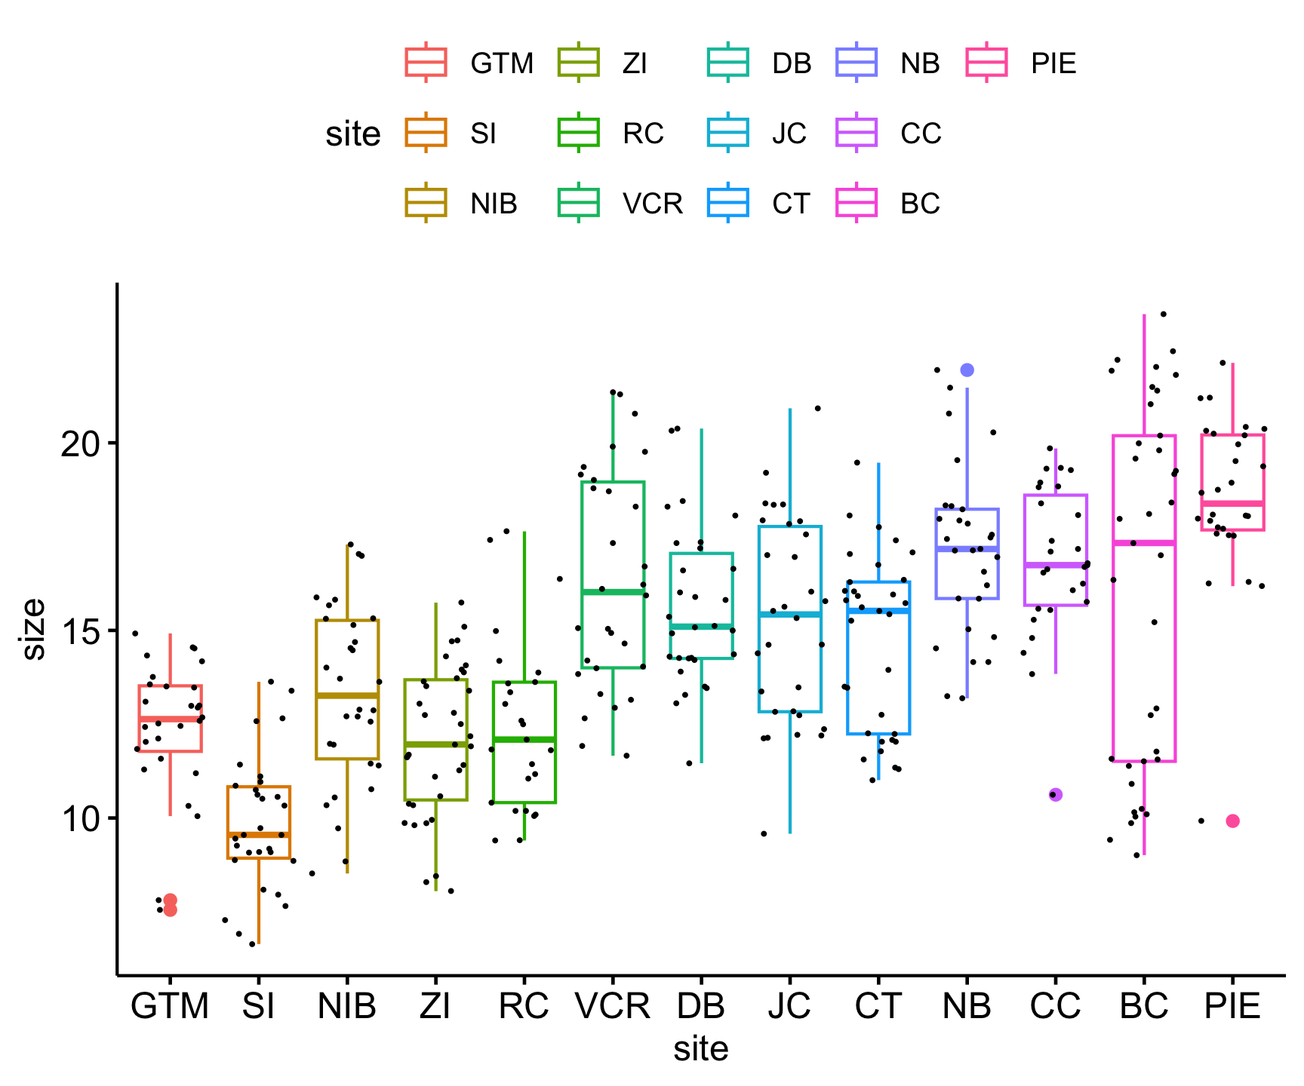
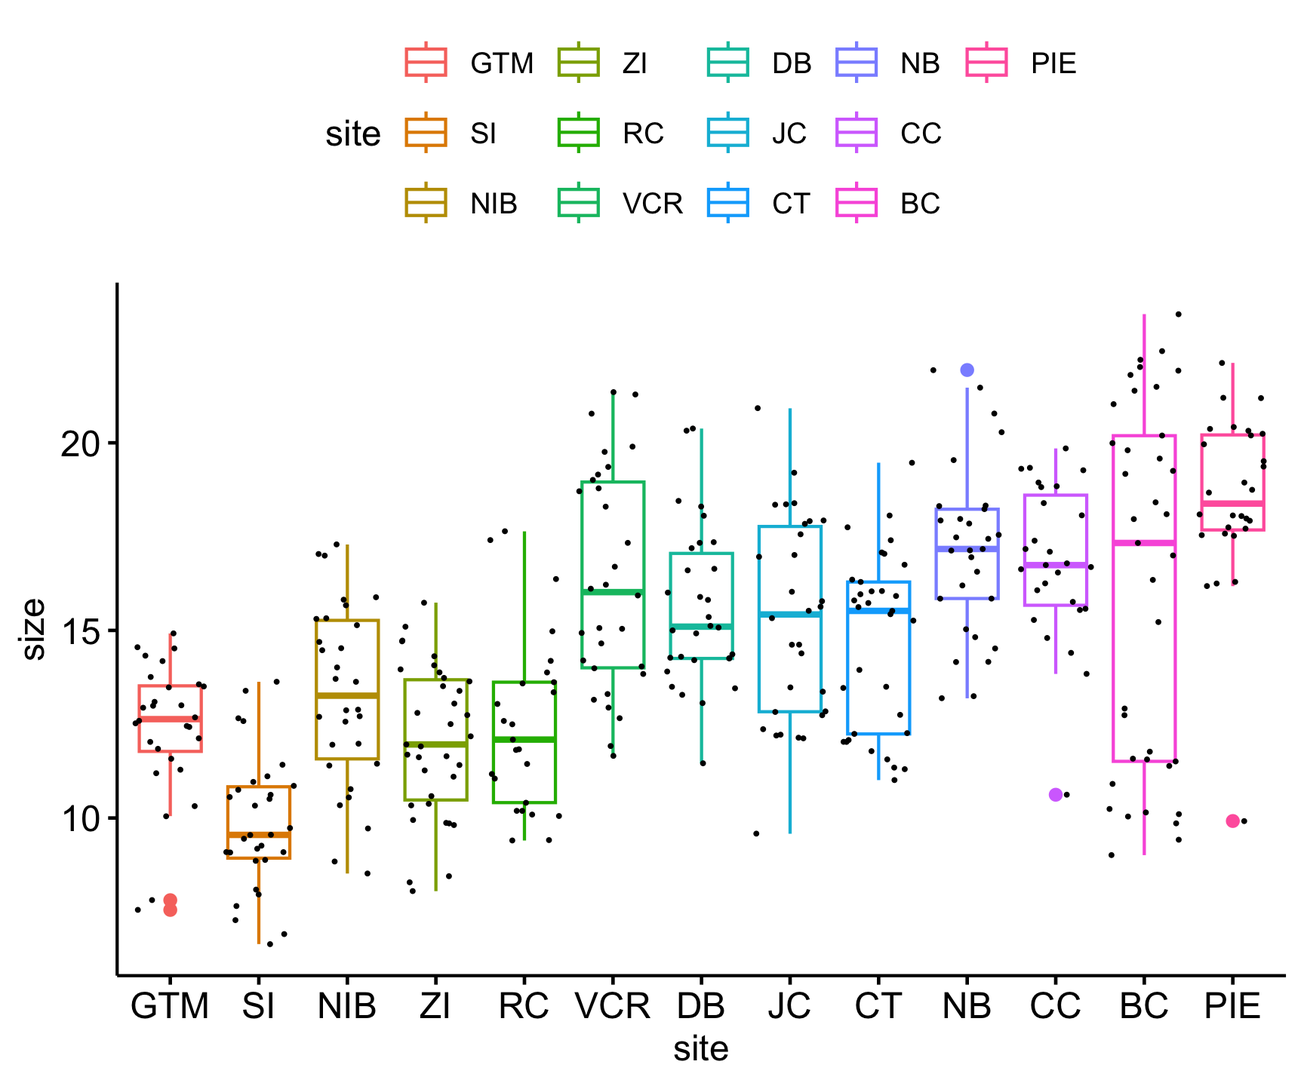
come on

diff --git a/docs/lab4.html b/docs/lab4.html
@@ -531,7 +531,7 @@ mean in group CC mean in group OG
     Shapiro-Wilk normality test
 
 data:  s$length_2_mm
-W = 0.93466, p-value &lt; 2.2e-16</code></pre>
+W = 0.92942, p-value &lt; 2.2e-16</code></pre>
 </div>
 <details class="code-fold">
 <summary>Code</summary>
@@ -542,7 +542,7 @@ W = 0.93466, p-value &lt; 2.2e-16</code></pre>
     Shapiro-Wilk normality test
 
 data:  s$weight_g
-W = 0.56517, p-value &lt; 2.2e-16</code></pre>
+W = 0.55629, p-value &lt; 2.2e-16</code></pre>
 </div>
 </div>
 <p>The <em>null hypothesis of the Shapiro-Wilk normality test is that the variable is normally distributed</em>, so a significant p-value less than 0.05 (as we see for both of our variables here) tells use that our data does not fit a normal distribution.</p>
@@ -916,7 +916,7 @@ $ name          &lt;chr&gt; "Guana Tolomoto Matanzas NERR", "Guana Tolomoto Mata
 <span id="cb62-9"><a href="#cb62-9" aria-hidden="true" tabindex="-1"></a>  flextable<span class="sc">::</span><span class="fu">set_caption</span>(<span class="st">"Shapiro-Wilk normality test for size at each site"</span>)</span></code><button title="Copy to Clipboard" class="code-copy-button"><i class="bi"></i></button></pre></div>
 </details>
 <div class="cell-output-display">
-<div class="tabwid"><style>.cl-cdd19b4c{}.cl-cdceaaf4{font-family:'Helvetica';font-size:11pt;font-weight:normal;font-style:normal;text-decoration:none;color:rgba(0, 0, 0, 1.00);background-color:transparent;}.cl-cdcfd8fc{margin:0;text-align:left;border-bottom: 0 solid rgba(0, 0, 0, 1.00);border-top: 0 solid rgba(0, 0, 0, 1.00);border-left: 0 solid rgba(0, 0, 0, 1.00);border-right: 0 solid rgba(0, 0, 0, 1.00);padding-bottom:5pt;padding-top:5pt;padding-left:5pt;padding-right:5pt;line-height: 1;background-color:transparent;}.cl-cdcfd906{margin:0;text-align:right;border-bottom: 0 solid rgba(0, 0, 0, 1.00);border-top: 0 solid rgba(0, 0, 0, 1.00);border-left: 0 solid rgba(0, 0, 0, 1.00);border-right: 0 solid rgba(0, 0, 0, 1.00);padding-bottom:5pt;padding-top:5pt;padding-left:5pt;padding-right:5pt;line-height: 1;background-color:transparent;}.cl-cdcfe5ae{width:0.75in;background-color:transparent;vertical-align: middle;border-bottom: 1.5pt solid rgba(102, 102, 102, 1.00);border-top: 1.5pt solid rgba(102, 102, 102, 1.00);border-left: 0 solid rgba(0, 0, 0, 1.00);border-right: 0 solid rgba(0, 0, 0, 1.00);margin-bottom:0;margin-top:0;margin-left:0;margin-right:0;}.cl-cdcfe5af{width:0.75in;background-color:transparent;vertical-align: middle;border-bottom: 1.5pt solid rgba(102, 102, 102, 1.00);border-top: 1.5pt solid rgba(102, 102, 102, 1.00);border-left: 0 solid rgba(0, 0, 0, 1.00);border-right: 0 solid rgba(0, 0, 0, 1.00);margin-bottom:0;margin-top:0;margin-left:0;margin-right:0;}.cl-cdcfe5b0{width:0.75in;background-color:transparent;vertical-align: middle;border-bottom: 0 solid rgba(0, 0, 0, 1.00);border-top: 0 solid rgba(0, 0, 0, 1.00);border-left: 0 solid rgba(0, 0, 0, 1.00);border-right: 0 solid rgba(0, 0, 0, 1.00);margin-bottom:0;margin-top:0;margin-left:0;margin-right:0;}.cl-cdcfe5b8{width:0.75in;background-color:transparent;vertical-align: middle;border-bottom: 0 solid rgba(0, 0, 0, 1.00);border-top: 0 solid rgba(0, 0, 0, 1.00);border-left: 0 solid rgba(0, 0, 0, 1.00);border-right: 0 solid rgba(0, 0, 0, 1.00);margin-bottom:0;margin-top:0;margin-left:0;margin-right:0;}.cl-cdcfe5b9{width:0.75in;background-color:transparent;vertical-align: middle;border-bottom: 1.5pt solid rgba(102, 102, 102, 1.00);border-top: 0 solid rgba(0, 0, 0, 1.00);border-left: 0 solid rgba(0, 0, 0, 1.00);border-right: 0 solid rgba(0, 0, 0, 1.00);margin-bottom:0;margin-top:0;margin-left:0;margin-right:0;}.cl-cdcfe5c2{width:0.75in;background-color:transparent;vertical-align: middle;border-bottom: 1.5pt solid rgba(102, 102, 102, 1.00);border-top: 0 solid rgba(0, 0, 0, 1.00);border-left: 0 solid rgba(0, 0, 0, 1.00);border-right: 0 solid rgba(0, 0, 0, 1.00);margin-bottom:0;margin-top:0;margin-left:0;margin-right:0;}</style><table data-quarto-disable-processing="true" class="cl-cdd19b4c"><thead><tr style="overflow-wrap:break-word;"><th class="cl-cdcfe5ae"><p class="cl-cdcfd8fc"><span class="cl-cdceaaf4">site</span></p></th><th class="cl-cdcfe5af"><p class="cl-cdcfd906"><span class="cl-cdceaaf4">n</span></p></th><th class="cl-cdcfe5af"><p class="cl-cdcfd906"><span class="cl-cdceaaf4">statistic</span></p></th><th class="cl-cdcfe5af"><p class="cl-cdcfd906"><span class="cl-cdceaaf4">p.value</span></p></th></tr></thead><tbody><tr style="overflow-wrap:break-word;"><td class="cl-cdcfe5b0"><p class="cl-cdcfd8fc"><span class="cl-cdceaaf4">GTM</span></p></td><td class="cl-cdcfe5b8"><p class="cl-cdcfd906"><span class="cl-cdceaaf4">28</span></p></td><td class="cl-cdcfe5b8"><p class="cl-cdcfd906"><span class="cl-cdceaaf4">0.9007814</span></p></td><td class="cl-cdcfe5b8"><p class="cl-cdcfd906"><span class="cl-cdceaaf4">0.0119337484</span></p></td></tr><tr style="overflow-wrap:break-word;"><td class="cl-cdcfe5b0"><p class="cl-cdcfd8fc"><span class="cl-cdceaaf4">SI</span></p></td><td class="cl-cdcfe5b8"><p class="cl-cdcfd906"><span class="cl-cdceaaf4">30</span></p></td><td class="cl-cdcfe5b8"><p class="cl-cdcfd906"><span class="cl-cdceaaf4">0.9705352</span></p></td><td class="cl-cdcfe5b8"><p class="cl-cdcfd906"><span class="cl-cdceaaf4">0.5539208550</span></p></td></tr><tr style="overflow-wrap:break-word;"><td class="cl-cdcfe5b0"><p class="cl-cdcfd8fc"><span class="cl-cdceaaf4">NIB</span></p></td><td class="cl-cdcfe5b8"><p class="cl-cdcfd906"><span class="cl-cdceaaf4">30</span></p></td><td class="cl-cdcfe5b8"><p class="cl-cdcfd906"><span class="cl-cdceaaf4">0.9728297</span></p></td><td class="cl-cdcfe5b8"><p class="cl-cdcfd906"><span class="cl-cdceaaf4">0.6191340731</span></p></td></tr><tr style="overflow-wrap:break-word;"><td class="cl-cdcfe5b0"><p class="cl-cdcfd8fc"><span class="cl-cdceaaf4">ZI</span></p></td><td class="cl-cdcfe5b8"><p class="cl-cdcfd906"><span class="cl-cdceaaf4">35</span></p></td><td class="cl-cdcfe5b8"><p class="cl-cdcfd906"><span class="cl-cdceaaf4">0.9744583</span></p></td><td class="cl-cdcfe5b8"><p class="cl-cdcfd906"><span class="cl-cdceaaf4">0.5765589900</span></p></td></tr><tr style="overflow-wrap:break-word;"><td class="cl-cdcfe5b0"><p class="cl-cdcfd8fc"><span class="cl-cdceaaf4">RC</span></p></td><td class="cl-cdcfe5b8"><p class="cl-cdcfd906"><span class="cl-cdceaaf4">25</span></p></td><td class="cl-cdcfe5b8"><p class="cl-cdcfd906"><span class="cl-cdceaaf4">0.9315062</span></p></td><td class="cl-cdcfe5b8"><p class="cl-cdcfd906"><span class="cl-cdceaaf4">0.0941588802</span></p></td></tr><tr style="overflow-wrap:break-word;"><td class="cl-cdcfe5b0"><p class="cl-cdcfd8fc"><span class="cl-cdceaaf4">VCR</span></p></td><td class="cl-cdcfe5b8"><p class="cl-cdcfd906"><span class="cl-cdceaaf4">30</span></p></td><td class="cl-cdcfe5b8"><p class="cl-cdcfd906"><span class="cl-cdceaaf4">0.9444682</span></p></td><td class="cl-cdcfe5b8"><p class="cl-cdcfd906"><span class="cl-cdceaaf4">0.1200262239</span></p></td></tr><tr style="overflow-wrap:break-word;"><td class="cl-cdcfe5b0"><p class="cl-cdcfd8fc"><span class="cl-cdceaaf4">DB</span></p></td><td class="cl-cdcfe5b8"><p class="cl-cdcfd906"><span class="cl-cdceaaf4">30</span></p></td><td class="cl-cdcfe5b8"><p class="cl-cdcfd906"><span class="cl-cdceaaf4">0.9576271</span></p></td><td class="cl-cdcfe5b8"><p class="cl-cdcfd906"><span class="cl-cdceaaf4">0.2690631942</span></p></td></tr><tr style="overflow-wrap:break-word;"><td class="cl-cdcfe5b0"><p class="cl-cdcfd8fc"><span class="cl-cdceaaf4">JC</span></p></td><td class="cl-cdcfe5b8"><p class="cl-cdcfd906"><span class="cl-cdceaaf4">30</span></p></td><td class="cl-cdcfe5b8"><p class="cl-cdcfd906"><span class="cl-cdceaaf4">0.9634754</span></p></td><td class="cl-cdcfe5b8"><p class="cl-cdcfd906"><span class="cl-cdceaaf4">0.3788327942</span></p></td></tr><tr style="overflow-wrap:break-word;"><td class="cl-cdcfe5b0"><p class="cl-cdcfd8fc"><span class="cl-cdceaaf4">CT</span></p></td><td class="cl-cdcfe5b8"><p class="cl-cdcfd906"><span class="cl-cdceaaf4">33</span></p></td><td class="cl-cdcfe5b8"><p class="cl-cdcfd906"><span class="cl-cdceaaf4">0.9277365</span></p></td><td class="cl-cdcfe5b8"><p class="cl-cdcfd906"><span class="cl-cdceaaf4">0.0301785639</span></p></td></tr><tr style="overflow-wrap:break-word;"><td class="cl-cdcfe5b0"><p class="cl-cdcfd8fc"><span class="cl-cdceaaf4">NB</span></p></td><td class="cl-cdcfe5b8"><p class="cl-cdcfd906"><span class="cl-cdceaaf4">29</span></p></td><td class="cl-cdcfe5b8"><p class="cl-cdcfd906"><span class="cl-cdceaaf4">0.9675367</span></p></td><td class="cl-cdcfe5b8"><p class="cl-cdcfd906"><span class="cl-cdceaaf4">0.4949587443</span></p></td></tr><tr style="overflow-wrap:break-word;"><td class="cl-cdcfe5b0"><p class="cl-cdcfd8fc"><span class="cl-cdceaaf4">CC</span></p></td><td class="cl-cdcfe5b8"><p class="cl-cdcfd906"><span class="cl-cdceaaf4">27</span></p></td><td class="cl-cdcfe5b8"><p class="cl-cdcfd906"><span class="cl-cdceaaf4">0.9354659</span></p></td><td class="cl-cdcfe5b8"><p class="cl-cdcfd906"><span class="cl-cdceaaf4">0.0941803007</span></p></td></tr><tr style="overflow-wrap:break-word;"><td class="cl-cdcfe5b0"><p class="cl-cdcfd8fc"><span class="cl-cdceaaf4">BC</span></p></td><td class="cl-cdcfe5b8"><p class="cl-cdcfd906"><span class="cl-cdceaaf4">37</span></p></td><td class="cl-cdcfe5b8"><p class="cl-cdcfd906"><span class="cl-cdceaaf4">0.8885721</span></p></td><td class="cl-cdcfe5b8"><p class="cl-cdcfd906"><span class="cl-cdceaaf4">0.0014402753</span></p></td></tr><tr style="overflow-wrap:break-word;"><td class="cl-cdcfe5b9"><p class="cl-cdcfd8fc"><span class="cl-cdceaaf4">PIE</span></p></td><td class="cl-cdcfe5c2"><p class="cl-cdcfd906"><span class="cl-cdceaaf4">28</span></p></td><td class="cl-cdcfe5c2"><p class="cl-cdcfd906"><span class="cl-cdceaaf4">0.8489399</span></p></td><td class="cl-cdcfe5c2"><p class="cl-cdcfd906"><span class="cl-cdceaaf4">0.0008899392</span></p></td></tr></tbody></table></div>
+<div class="tabwid"><style>.cl-ff28fdd2{}.cl-ff25d67a{font-family:'Helvetica';font-size:11pt;font-weight:normal;font-style:normal;text-decoration:none;color:rgba(0, 0, 0, 1.00);background-color:transparent;}.cl-ff27214c{margin:0;text-align:left;border-bottom: 0 solid rgba(0, 0, 0, 1.00);border-top: 0 solid rgba(0, 0, 0, 1.00);border-left: 0 solid rgba(0, 0, 0, 1.00);border-right: 0 solid rgba(0, 0, 0, 1.00);padding-bottom:5pt;padding-top:5pt;padding-left:5pt;padding-right:5pt;line-height: 1;background-color:transparent;}.cl-ff272156{margin:0;text-align:right;border-bottom: 0 solid rgba(0, 0, 0, 1.00);border-top: 0 solid rgba(0, 0, 0, 1.00);border-left: 0 solid rgba(0, 0, 0, 1.00);border-right: 0 solid rgba(0, 0, 0, 1.00);padding-bottom:5pt;padding-top:5pt;padding-left:5pt;padding-right:5pt;line-height: 1;background-color:transparent;}.cl-ff272ee4{width:0.75in;background-color:transparent;vertical-align: middle;border-bottom: 1.5pt solid rgba(102, 102, 102, 1.00);border-top: 1.5pt solid rgba(102, 102, 102, 1.00);border-left: 0 solid rgba(0, 0, 0, 1.00);border-right: 0 solid rgba(0, 0, 0, 1.00);margin-bottom:0;margin-top:0;margin-left:0;margin-right:0;}.cl-ff272ee5{width:0.75in;background-color:transparent;vertical-align: middle;border-bottom: 1.5pt solid rgba(102, 102, 102, 1.00);border-top: 1.5pt solid rgba(102, 102, 102, 1.00);border-left: 0 solid rgba(0, 0, 0, 1.00);border-right: 0 solid rgba(0, 0, 0, 1.00);margin-bottom:0;margin-top:0;margin-left:0;margin-right:0;}.cl-ff272eee{width:0.75in;background-color:transparent;vertical-align: middle;border-bottom: 0 solid rgba(0, 0, 0, 1.00);border-top: 0 solid rgba(0, 0, 0, 1.00);border-left: 0 solid rgba(0, 0, 0, 1.00);border-right: 0 solid rgba(0, 0, 0, 1.00);margin-bottom:0;margin-top:0;margin-left:0;margin-right:0;}.cl-ff272eef{width:0.75in;background-color:transparent;vertical-align: middle;border-bottom: 0 solid rgba(0, 0, 0, 1.00);border-top: 0 solid rgba(0, 0, 0, 1.00);border-left: 0 solid rgba(0, 0, 0, 1.00);border-right: 0 solid rgba(0, 0, 0, 1.00);margin-bottom:0;margin-top:0;margin-left:0;margin-right:0;}.cl-ff272ef0{width:0.75in;background-color:transparent;vertical-align: middle;border-bottom: 1.5pt solid rgba(102, 102, 102, 1.00);border-top: 0 solid rgba(0, 0, 0, 1.00);border-left: 0 solid rgba(0, 0, 0, 1.00);border-right: 0 solid rgba(0, 0, 0, 1.00);margin-bottom:0;margin-top:0;margin-left:0;margin-right:0;}.cl-ff272ef1{width:0.75in;background-color:transparent;vertical-align: middle;border-bottom: 1.5pt solid rgba(102, 102, 102, 1.00);border-top: 0 solid rgba(0, 0, 0, 1.00);border-left: 0 solid rgba(0, 0, 0, 1.00);border-right: 0 solid rgba(0, 0, 0, 1.00);margin-bottom:0;margin-top:0;margin-left:0;margin-right:0;}</style><table data-quarto-disable-processing="true" class="cl-ff28fdd2"><thead><tr style="overflow-wrap:break-word;"><th class="cl-ff272ee4"><p class="cl-ff27214c"><span class="cl-ff25d67a">site</span></p></th><th class="cl-ff272ee5"><p class="cl-ff272156"><span class="cl-ff25d67a">n</span></p></th><th class="cl-ff272ee5"><p class="cl-ff272156"><span class="cl-ff25d67a">statistic</span></p></th><th class="cl-ff272ee5"><p class="cl-ff272156"><span class="cl-ff25d67a">p.value</span></p></th></tr></thead><tbody><tr style="overflow-wrap:break-word;"><td class="cl-ff272eee"><p class="cl-ff27214c"><span class="cl-ff25d67a">GTM</span></p></td><td class="cl-ff272eef"><p class="cl-ff272156"><span class="cl-ff25d67a">28</span></p></td><td class="cl-ff272eef"><p class="cl-ff272156"><span class="cl-ff25d67a">0.9007814</span></p></td><td class="cl-ff272eef"><p class="cl-ff272156"><span class="cl-ff25d67a">0.0119337484</span></p></td></tr><tr style="overflow-wrap:break-word;"><td class="cl-ff272eee"><p class="cl-ff27214c"><span class="cl-ff25d67a">SI</span></p></td><td class="cl-ff272eef"><p class="cl-ff272156"><span class="cl-ff25d67a">30</span></p></td><td class="cl-ff272eef"><p class="cl-ff272156"><span class="cl-ff25d67a">0.9705352</span></p></td><td class="cl-ff272eef"><p class="cl-ff272156"><span class="cl-ff25d67a">0.5539208550</span></p></td></tr><tr style="overflow-wrap:break-word;"><td class="cl-ff272eee"><p class="cl-ff27214c"><span class="cl-ff25d67a">NIB</span></p></td><td class="cl-ff272eef"><p class="cl-ff272156"><span class="cl-ff25d67a">30</span></p></td><td class="cl-ff272eef"><p class="cl-ff272156"><span class="cl-ff25d67a">0.9728297</span></p></td><td class="cl-ff272eef"><p class="cl-ff272156"><span class="cl-ff25d67a">0.6191340731</span></p></td></tr><tr style="overflow-wrap:break-word;"><td class="cl-ff272eee"><p class="cl-ff27214c"><span class="cl-ff25d67a">ZI</span></p></td><td class="cl-ff272eef"><p class="cl-ff272156"><span class="cl-ff25d67a">35</span></p></td><td class="cl-ff272eef"><p class="cl-ff272156"><span class="cl-ff25d67a">0.9744583</span></p></td><td class="cl-ff272eef"><p class="cl-ff272156"><span class="cl-ff25d67a">0.5765589900</span></p></td></tr><tr style="overflow-wrap:break-word;"><td class="cl-ff272eee"><p class="cl-ff27214c"><span class="cl-ff25d67a">RC</span></p></td><td class="cl-ff272eef"><p class="cl-ff272156"><span class="cl-ff25d67a">25</span></p></td><td class="cl-ff272eef"><p class="cl-ff272156"><span class="cl-ff25d67a">0.9315062</span></p></td><td class="cl-ff272eef"><p class="cl-ff272156"><span class="cl-ff25d67a">0.0941588802</span></p></td></tr><tr style="overflow-wrap:break-word;"><td class="cl-ff272eee"><p class="cl-ff27214c"><span class="cl-ff25d67a">VCR</span></p></td><td class="cl-ff272eef"><p class="cl-ff272156"><span class="cl-ff25d67a">30</span></p></td><td class="cl-ff272eef"><p class="cl-ff272156"><span class="cl-ff25d67a">0.9444682</span></p></td><td class="cl-ff272eef"><p class="cl-ff272156"><span class="cl-ff25d67a">0.1200262239</span></p></td></tr><tr style="overflow-wrap:break-word;"><td class="cl-ff272eee"><p class="cl-ff27214c"><span class="cl-ff25d67a">DB</span></p></td><td class="cl-ff272eef"><p class="cl-ff272156"><span class="cl-ff25d67a">30</span></p></td><td class="cl-ff272eef"><p class="cl-ff272156"><span class="cl-ff25d67a">0.9576271</span></p></td><td class="cl-ff272eef"><p class="cl-ff272156"><span class="cl-ff25d67a">0.2690631942</span></p></td></tr><tr style="overflow-wrap:break-word;"><td class="cl-ff272eee"><p class="cl-ff27214c"><span class="cl-ff25d67a">JC</span></p></td><td class="cl-ff272eef"><p class="cl-ff272156"><span class="cl-ff25d67a">30</span></p></td><td class="cl-ff272eef"><p class="cl-ff272156"><span class="cl-ff25d67a">0.9634754</span></p></td><td class="cl-ff272eef"><p class="cl-ff272156"><span class="cl-ff25d67a">0.3788327942</span></p></td></tr><tr style="overflow-wrap:break-word;"><td class="cl-ff272eee"><p class="cl-ff27214c"><span class="cl-ff25d67a">CT</span></p></td><td class="cl-ff272eef"><p class="cl-ff272156"><span class="cl-ff25d67a">33</span></p></td><td class="cl-ff272eef"><p class="cl-ff272156"><span class="cl-ff25d67a">0.9277365</span></p></td><td class="cl-ff272eef"><p class="cl-ff272156"><span class="cl-ff25d67a">0.0301785639</span></p></td></tr><tr style="overflow-wrap:break-word;"><td class="cl-ff272eee"><p class="cl-ff27214c"><span class="cl-ff25d67a">NB</span></p></td><td class="cl-ff272eef"><p class="cl-ff272156"><span class="cl-ff25d67a">29</span></p></td><td class="cl-ff272eef"><p class="cl-ff272156"><span class="cl-ff25d67a">0.9675367</span></p></td><td class="cl-ff272eef"><p class="cl-ff272156"><span class="cl-ff25d67a">0.4949587443</span></p></td></tr><tr style="overflow-wrap:break-word;"><td class="cl-ff272eee"><p class="cl-ff27214c"><span class="cl-ff25d67a">CC</span></p></td><td class="cl-ff272eef"><p class="cl-ff272156"><span class="cl-ff25d67a">27</span></p></td><td class="cl-ff272eef"><p class="cl-ff272156"><span class="cl-ff25d67a">0.9354659</span></p></td><td class="cl-ff272eef"><p class="cl-ff272156"><span class="cl-ff25d67a">0.0941803007</span></p></td></tr><tr style="overflow-wrap:break-word;"><td class="cl-ff272eee"><p class="cl-ff27214c"><span class="cl-ff25d67a">BC</span></p></td><td class="cl-ff272eef"><p class="cl-ff272156"><span class="cl-ff25d67a">37</span></p></td><td class="cl-ff272eef"><p class="cl-ff272156"><span class="cl-ff25d67a">0.8885721</span></p></td><td class="cl-ff272eef"><p class="cl-ff272156"><span class="cl-ff25d67a">0.0014402753</span></p></td></tr><tr style="overflow-wrap:break-word;"><td class="cl-ff272ef0"><p class="cl-ff27214c"><span class="cl-ff25d67a">PIE</span></p></td><td class="cl-ff272ef1"><p class="cl-ff272156"><span class="cl-ff25d67a">28</span></p></td><td class="cl-ff272ef1"><p class="cl-ff272156"><span class="cl-ff25d67a">0.8489399</span></p></td><td class="cl-ff272ef1"><p class="cl-ff272156"><span class="cl-ff25d67a">0.0008899392</span></p></td></tr></tbody></table></div>
 </div>
 </div>
 <p>In nearly all cases, the p-value &gt; 0.01 (with the exception of BC and PIE), so we generally accept the null that this data <strong>does</strong> fit the normal distribution assumption across groups.</p>
@@ -1190,7 +1190,7 @@ water_temp -0.9571738  0.9632287  1.0000000</code></pre>
 <div class="cell-output cell-output-stdout">
 <pre><code>
 The downloaded binary packages are in
-    /var/folders/0h/0fvn_sfj2ql8s7_jwfhsgx_h0000gn/T//Rtmp0V07FL/downloaded_packages</code></pre>
+    /var/folders/0h/0fvn_sfj2ql8s7_jwfhsgx_h0000gn/T//Rtmpz4YrZd/downloaded_packages</code></pre>
 </div>
 <details class="code-fold">
 <summary>Code</summary>
@@ -1206,7 +1206,7 @@ The downloaded binary packages are in
 <div class="cell-output cell-output-stdout">
 <pre><code>
 The downloaded binary packages are in
-    /var/folders/0h/0fvn_sfj2ql8s7_jwfhsgx_h0000gn/T//Rtmp0V07FL/downloaded_packages</code></pre>
+    /var/folders/0h/0fvn_sfj2ql8s7_jwfhsgx_h0000gn/T//Rtmpz4YrZd/downloaded_packages</code></pre>
 </div>
 <details class="code-fold">
 <summary>Code</summary>
@@ -1230,14 +1230,15 @@ $ name          &lt;chr&gt; "Guana Tolomoto Matanzas NERR", "Guana Tolomoto Mata
 <details class="code-fold">
 <summary>Code</summary>
 <div class="sourceCode cell-code" id="cb93"><pre class="sourceCode r code-with-copy"><code class="sourceCode r"><span id="cb93-1"><a href="#cb93-1" aria-hidden="true" tabindex="-1"></a>crab_data_sorted <span class="ot">&lt;-</span> pie_crab <span class="sc">%&gt;%</span></span>
-<span id="cb93-2"><a href="#cb93-2" aria-hidden="true" tabindex="-1"></a>  <span class="fu">arrange</span>(latitude)</span>
-<span id="cb93-3"><a href="#cb93-3" aria-hidden="true" tabindex="-1"></a></span>
-<span id="cb93-4"><a href="#cb93-4" aria-hidden="true" tabindex="-1"></a> crab_data_sorted <span class="sc">%&gt;%</span></span>
-<span id="cb93-5"><a href="#cb93-5" aria-hidden="true" tabindex="-1"></a>  <span class="fu">ggboxplot</span>(<span class="at">x =</span> <span class="st">'site'</span>, <span class="at">y =</span> <span class="st">'size'</span>, <span class="at">col =</span> <span class="st">'site'</span>) <span class="sc">+</span></span>
-<span id="cb93-6"><a href="#cb93-6" aria-hidden="true" tabindex="-1"></a>  <span class="fu">geom_jitter</span>(<span class="at">size =</span> .<span class="dv">25</span>) <span class="sc">+</span></span>
-<span id="cb93-7"><a href="#cb93-7" aria-hidden="true" tabindex="-1"></a>  <span class="fu">theme</span>(<span class="at">legend.position =</span> <span class="st">"none"</span>) <span class="sc">+</span></span>
-<span id="cb93-8"><a href="#cb93-8" aria-hidden="true" tabindex="-1"></a>   <span class="fu">theme</span>(</span>
-<span id="cb93-9"><a href="#cb93-9" aria-hidden="true" tabindex="-1"></a>    <span class="at">axis.text.x =</span> <span class="fu">element_text</span>(<span class="at">size =</span> <span class="dv">5</span>))</span></code><button title="Copy to Clipboard" class="code-copy-button"><i class="bi"></i></button></pre></div>
+<span id="cb93-2"><a href="#cb93-2" aria-hidden="true" tabindex="-1"></a>  <span class="fu">filter</span>(site <span class="sc">%in%</span> <span class="fu">c</span>(<span class="st">"GTM"</span>, <span class="st">"DB"</span>, <span class="st">"PIE"</span>)) <span class="sc">%&gt;%</span></span>
+<span id="cb93-3"><a href="#cb93-3" aria-hidden="true" tabindex="-1"></a>  <span class="fu">arrange</span>(latitude)</span>
+<span id="cb93-4"><a href="#cb93-4" aria-hidden="true" tabindex="-1"></a></span>
+<span id="cb93-5"><a href="#cb93-5" aria-hidden="true" tabindex="-1"></a> crab_data_sorted <span class="sc">%&gt;%</span></span>
+<span id="cb93-6"><a href="#cb93-6" aria-hidden="true" tabindex="-1"></a>  <span class="fu">ggboxplot</span>(<span class="at">x =</span> <span class="st">'site'</span>, <span class="at">y =</span> <span class="st">'size'</span>, <span class="at">col =</span> <span class="st">'site'</span>) <span class="sc">+</span></span>
+<span id="cb93-7"><a href="#cb93-7" aria-hidden="true" tabindex="-1"></a>  <span class="fu">geom_jitter</span>(<span class="at">size =</span> .<span class="dv">25</span>) <span class="sc">+</span></span>
+<span id="cb93-8"><a href="#cb93-8" aria-hidden="true" tabindex="-1"></a>  <span class="fu">theme</span>(<span class="at">legend.position =</span> <span class="st">"none"</span>) <span class="sc">+</span></span>
+<span id="cb93-9"><a href="#cb93-9" aria-hidden="true" tabindex="-1"></a>   <span class="fu">theme</span>(</span>
+<span id="cb93-10"><a href="#cb93-10" aria-hidden="true" tabindex="-1"></a>    <span class="at">axis.text.x =</span> <span class="fu">element_text</span>(<span class="at">size =</span> <span class="dv">5</span>))</span></code><button title="Copy to Clipboard" class="code-copy-button"><i class="bi"></i></button></pre></div>
 </details>
 <div class="cell-output-display">
 <div>
@@ -1264,21 +1265,21 @@ $ name          &lt;chr&gt; "Guana Tolomoto Matanzas NERR", "Guana Tolomoto Mata
 </details>
 <div class="cell-output cell-output-stdout">
 <pre><code>      date               latitude         site                size      
- Min.   :2016-07-24   Min.   :30.00   Length:392         Min.   : 6.64  
- 1st Qu.:2016-07-28   1st Qu.:34.00   Class :character   1st Qu.:12.02  
- Median :2016-08-01   Median :39.10   Mode  :character   Median :14.44  
- Mean   :2016-08-02   Mean   :37.69                      Mean   :14.66  
- 3rd Qu.:2016-08-09   3rd Qu.:41.60                      3rd Qu.:17.34  
- Max.   :2016-08-13   Max.   :42.70                      Max.   :23.43  
+ Min.   :2016-07-24   Min.   :30.00   Length:86          Min.   : 7.55  
+ 1st Qu.:2016-07-24   1st Qu.:30.00   Class :character   1st Qu.:13.14  
+ Median :2016-08-07   Median :39.10   Mode  :character   Median :15.04  
+ Mean   :2016-08-04   Mean   :37.31                      Mean   :15.51  
+ 3rd Qu.:2016-08-13   3rd Qu.:42.70                      3rd Qu.:18.03  
+ Max.   :2016-08-13   Max.   :42.70                      Max.   :22.13  
     air_temp      air_temp_sd      water_temp    water_temp_sd  
- Min.   :10.29   Min.   :6.391   Min.   :13.98   Min.   :4.838  
- 1st Qu.:12.05   1st Qu.:8.110   1st Qu.:14.33   1st Qu.:6.567  
- Median :13.93   Median :8.410   Median :17.50   Median :6.998  
- Mean   :15.20   Mean   :8.654   Mean   :17.65   Mean   :7.252  
- 3rd Qu.:18.63   3rd Qu.:9.483   3rd Qu.:20.54   3rd Qu.:7.865  
+ Min.   :10.29   Min.   :6.391   Min.   :14.33   Min.   :4.838  
+ 1st Qu.:10.29   1st Qu.:6.391   1st Qu.:14.33   1st Qu.:4.838  
+ Median :13.93   Median :9.450   Median :15.66   Median :6.121  
+ Mean   :15.31   Mean   :8.634   Mean   :18.10   Mean   :6.750  
+ 3rd Qu.:21.79   3rd Qu.:9.965   3rd Qu.:24.50   3rd Qu.:9.121  
  Max.   :21.79   Max.   :9.965   Max.   :24.50   Max.   :9.121  
      name          
- Length:392        
+ Length:86         
  Class :character  
  Mode  :character  
                    
